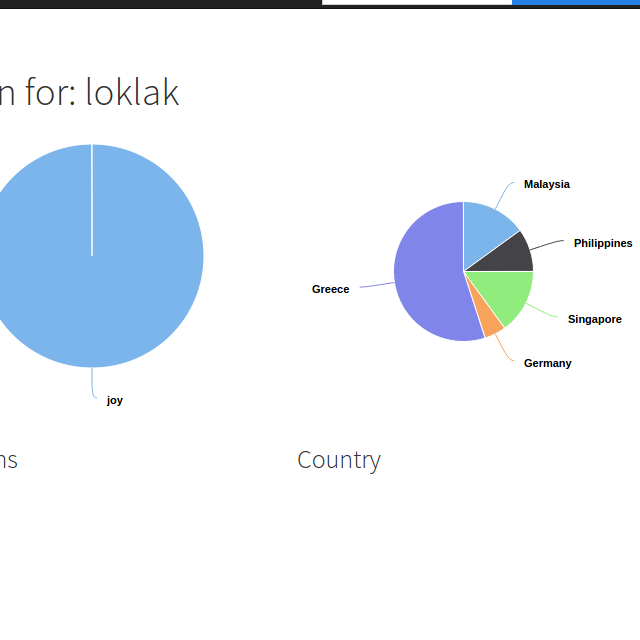
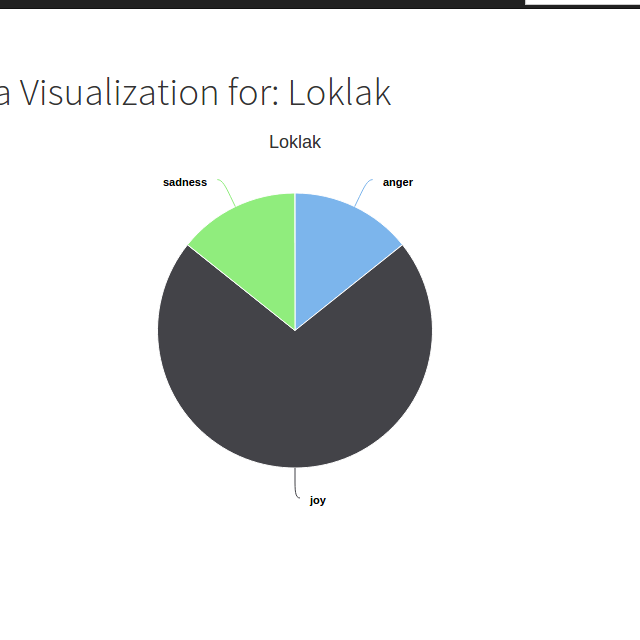
Fixes: #566 added pie chart for viewing the tweets languages

diff --git a/html/apps/sentimentVisualizer/visualize.html b/html/apps/sentimentVisualizer/visualize.html
@@ -110,9 +110,10 @@
             <br></br>
             <h1>Emotion and Data Visualization for: {{query}}</h1>
         <center><div ng-if="spinner && !tweetsStatus"><img src="loading.gif" height="400" width="400"/></div></center>
-        <div>
-        <div class="pie-chart"></div>
-</div>
+        <div style="width: 100%;margin: 0 auto;">
+            <div style="width: 50%;min-height: 400px;float: left;" class="pie-chart2"></div>
+            <div style="width: 50%;min-height: 400px;float: left;" class="pie-chart"></div>
+        </div>
             <div ng-if="tweetsStatus">
             <div class="row" ng-repeat="value in tweetsStatus | limitTo:10">
                 <div class="post-wrapper">
@@ -142,6 +143,7 @@
                      var text = [];
                      var count = [];
                      var emotions_array = [];
+                     var language_array = [];
                      for (var i=0; i<statuses.length; i++) {
                         if(statuses[i].classifier_emotion){
                             user = statuses[i].screen_name; 
@@ -149,6 +151,10 @@
                             emotions_array.push(emotion);
                             text = statuses[i].text;
                             users.push([user, emotion, text]);
+                        }
+                        if(statuses[i].classifier_language){
+                            lang = statuses[i].classifier_language;
+                            language_array.push(lang);
                         }
                      }
                      emotions_array.sort();
@@ -171,8 +177,25 @@
                                 em_count++;
                             }
                         }
+                    language_array.sort();
+                    var lang_name = [];
+                    for (var i = 0; i <= language_array.length; i++) {
+                            var languageObj =  {};
+                            if (language_array[i] != current) {
+                                if (em_count > 0) {
+                                    languageObj['name'] = current;
+                                    languageObj['y'] = em_count;
+                                    lang_name.push(languageObj);
+                                }
+                                current = language_array[i];
+                                em_count = 1;
+                                } else {
+                                em_count++;
+                            }
+                        }
                      $scope.tweetsStatus = users;
                      $scope.emotions = emotions_name;
+                     $scope.languages = lang_name;
                      $('.pie-chart').highcharts({
                         chart: {
                             plotBackgroundColor: null,
@@ -203,6 +226,38 @@
                             name: $scope.query,
                             colorByPoint: true,
                             data: $scope.emotions
+                        }]
+                    });
+                     $('.pie-chart2').highcharts({
+                        chart: {
+                            plotBackgroundColor: null,
+                            plotBorderWidth: null,
+                            plotShadow: false,
+                            type: 'pie'
+                        },
+                        title: {
+                            text: $scope.query
+                        },
+                        tooltip: {
+                            pointFormat: '{series.name}: <b>{point.percentage:.1f}%</b>'
+                        },
+                        plotOptions: {
+                            pie: {
+                                allowPointSelect: true,
+                                cursor: 'pointer',
+                                dataLabels: {
+                                    enabled: true,
+                                    format : '',
+                                    style: {
+                                        color: (Highcharts.theme && Highcharts.theme.contrastTextColor) || 'black'
+                                    }
+                                }
+                            }
+                        },
+                        series: [{
+                            name: $scope.query,
+                            colorByPoint: true,
+                            data: $scope.languages
                         }]
                     });
                  });
